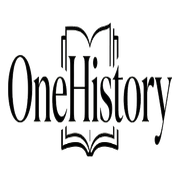
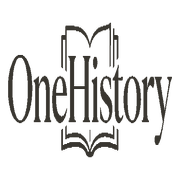
颜色修改

Changed region(s): [[0.0278, 0.1111, 0.9722, 0.8889], [0.6111, 0.1667, 0.6667, 0.3611], [0.8611, 0.75, 0.8889, 0.8056]]

diff --git a/b-Site/assets/site.css b/b-Site/assets/site.css
@@ -8,25 +8,25 @@
    ============================================================ */
 
 /* ---------------------------------------------- 令牌 */
-/* 与 README §3 逐值相同。--ink 是墨色（= text），墨色块、粗横线都用它；
-   *-on-ink 是写在墨色块上的反白字：取另一套主题的对应值（Office 的 accent-dark 同理）。 */
+/* 与 README §3 逐值相同（= HistoryAurora 1.41.0）。文字只有一种颜色：--text = --text-2 = --ink；
+   --on-ink 是墨色块上的反白字 = 本主题 canvas；accent-on-ink / text-2-on-ink 取另一套主题的对应值。 */
 html[data-theme="light"] {
-  --canvas:#FBFAF7; --surface:#F3F1EC; --surface-2:#EBE9E4; --surface-hover:#E5E3DE;
-  --text:#26231E; --text-2:#6A6458;
-  --accent:#7F5E0F; --accent-hover:#6A4E0C;
+  --canvas:#FBFAF7; --surface:#ECEAE5; --surface-2:#DAD7CE; --surface-hover:#E3E1DA;
+  --text:#38352F; --text-2:#38352F;
+  --accent:#7F5E0F;
   --accent-soft:rgba(127,94,15,.34); --accent-wash:rgba(127,94,15,.08);
-  --hairline:#E5E3DE; --hairline-2:#D5D1C8;
+  --hairline:#E3E1DA; --hairline-2:#D5D1C8;
   --code-bg:#EBE9E4;
-  --ink:#26231E; --on-ink:#FBFAF7; --accent-on-ink:#D9A441; --text-2-on-ink:#ACA593;
+  --ink:#38352F; --on-ink:#FBFAF7; --accent-on-ink:#D9A441; --text-2-on-ink:#DAD7CE;
 }
 html[data-theme="dark"] {
-  --canvas:#121414; --surface:#1D201F; --surface-2:#191C1B; --surface-hover:#2A2D2C;
-  --text:#E2DAC6; --text-2:#ACA593;
-  --accent:#D9A441; --accent-hover:#E8B65C;
+  --canvas:#121414; --surface:#232320; --surface-2:#38352F; --surface-hover:#2E2C28;
+  --text:#DAD7CE; --text-2:#DAD7CE;
+  --accent:#D9A441;
   --accent-soft:rgba(217,164,65,.38); --accent-wash:rgba(217,164,65,.10);
-  --hairline:#2A2D2C; --hairline-2:#343936;
-  --code-bg:#171A19;
-  --ink:#E2DAC6; --on-ink:#121414; --accent-on-ink:#7F5E0F; --text-2-on-ink:#6A6458;
+  --hairline:#2E2C28; --hairline-2:#343736;
+  --code-bg:#242625;
+  --ink:#DAD7CE; --on-ink:#121414; --accent-on-ink:#7F5E0F; --text-2-on-ink:#38352F;
 }
 :root {
   --nav-h:62px; --wrap:1200px;

diff --git a/z-OneHistoryID/README.md b/z-OneHistoryID/README.md
@@ -8,7 +8,7 @@
 |---|---|---|
 | 字标、颜色令牌、字体 | 本文件 | `b-Site/assets/site.css`、HistoryAurora `AuroraTokens.xaml`、各 Office 模板 |
 | 网站风格 | [网站风格.md](网站风格.md) | `b-Site/`（模板、样式、脚本） |
-| Office 风格 | [Office风格.md](Office风格.md) | `0000-000-Template/Unused/b-Office/` |
+| Office 风格 | [Office风格.md](Office风格.md) | `0000-000-Template/z-Unused/b-Office/` |
 
 - 改色的顺序：先改本文件，再同步 `site.css` 和 `AuroraTokens.xaml`，最后同步 Office 模板。
 - 实现与本目录冲突时，以本目录为准，并回头修实现。
@@ -18,45 +18,48 @@
 
 | 文件 | 用途 |
 |---|---|
-| `b-Site/assets/logo.png` | 原始字标，黑色，透明底，640×228。浅色主题的网站使用 |
-| `b-Site/assets/logo-dark.png` | 浅色字标，透明底。深色主题的网站使用 |
-| `b-Site/assets/favicon.png`、`apple-touch.png` | 站点图标 |
-| `z-OneHistoryID/assets/logo-ink.png` | 墨色（`#26231E`）字标，已裁掉透明边，588×176。Office 浅色背景使用 |
+| `b-Site/assets/logo.png` | 浅色墨色（`#38352F`）字标，透明底，640×228。浅色主题的网站使用 |
+| `b-Site/assets/logo-dark.png` | 深色墨色（`#DAD7CE`）字标，透明底。深色主题的网站使用 |
+| `b-Site/assets/favicon.png`、`apple-touch.png` | 站点图标，浅色墨色 |
+| `z-OneHistoryID/assets/logo-ink.png` | 墨色（`#38352F`）字标，已裁掉透明边，588×176。Office 浅色背景使用 |
 | `z-OneHistoryID/assets/logo-canvas.png` | 纸色（`#FBFAF7`）字标，588×176。Office 墨色背景使用 |
+| 各仓库根目录 `Logo.png` | README 用的整张字标图：纸色 `#FBFAF7` 底、墨色 `#38352F` 字，654×439 |
+
+- 全部由同一个字形按上表颜色重新着色得到（2026-10-23 起），只有这几种颜色版本。
 
 - 字标是衬线体的「OneHistory」，中间嵌一本打开的书。「书页」是整个识别体系的母题（网站首屏的书页意象就来自它）。
 - 不要拉伸字标，不要加描边、阴影或渐变，也不要给它另外配色。只允许使用上表中的几种颜色版本。
 
 ## 3. 颜色令牌
 
-两套主题共用同一组令牌名。
+两套主题共用同一组令牌名，颜色与 HistoryAurora 1.41.0 逐值相同（2026-10-23 起）。
 
-- 浅色：暖白纸面上的墨色正文，主题色压暗到 `#7F5E0F`，保证文字对比度过 AA。
-- 深色：炭黑底上的米色正文，主题色为亮金。
-- 两套主题的文字与底色都在同一个暖色相里。
+- **文字只有一种颜色**：浅色 `#38352F`、深色 `#DAD7CE`。正文、标题、次要文字、墨色块都是它；`text-2` 保留名字，值与 `text` 相同。
+  这一档由用户从七档样张里选定：对背景约 11:1，比原来的墨色（`#26231E`）柔和，比原来的次要文字（`#6A6458`）清楚。
+- 墨色块上的反白字就是本主题的底色（`canvas`）。`surface-2`（控制面板、条带）= 另一套主题的墨色块：浅色 `#DAD7CE`、深色 `#38352F`；`surface`（页面、卡片）取 `canvas` 到 `surface-2` 的 45%，让控制面板不突兀；`surface-hover` / `hairline` 再往面板走一半。
+- 浅色：暖白纸面，主题色压暗到 `#7F5E0F`，保证文字对比度过 AA。深色：炭黑底，主题色为亮金。
 - 层级是「底色 → 卡片 → 条带」三层小台阶，浅色越往上越深，深色与之对应。
 
 | 令牌 | 浅色 | 深色 | 用途 |
 |---|---|---|---|
-| `canvas` | `#FBFAF7` | `#121414` | 页面底色 |
-| `surface` | `#F3F1EC` | `#1D201F` | 卡片、输入框、按钮底 |
-| `surface-2` | `#EBE9E4` | `#191C1B` | 条带、分段控件底、快捷键提示 |
-| `surface-hover` | `#E5E3DE` | `#2A2D2C` | 悬停底色 |
-| `text` | `#26231E` | `#E2DAC6` | 正文、标题（Office 里称 ink，即墨色） |
-| `text-2` | `#6A6458` | `#ACA593` | 次要文字、标签、说明 |
+| `canvas` | `#FBFAF7` | `#121414` | 页面底色；墨色块上的反白字 |
+| `surface` | `#ECEAE5` | `#232320` | 卡片、输入框、按钮底 |
+| `surface-2` | `#DAD7CE` | `#38352F` | 条带、分段控件底、快捷键提示（= 另一套主题的墨色块） |
+| `surface-hover` | `#E3E1DA` | `#2E2C28` | 悬停底色 |
+| `text` | `#38352F` | `#DAD7CE` | 正文、标题、墨色块（Office 里称 ink，即墨色） |
+| `text-2` | `#38352F` | `#DAD7CE` | 次要文字、标签、说明（与 `text` 同值） |
 | `accent` | `#7F5E0F` | `#D9A441` | 主题色：链接、编号、选中态、章节号 |
-| `accent-hover` | `#6A4E0C` | `#E8B65C` | 主题色悬停 |
 | `accent-soft` | `rgba(127,94,15,.34)` | `rgba(217,164,65,.38)` | 选中 / 悬停时的描边 |
 | `accent-wash` | `rgba(127,94,15,.08)` | `rgba(217,164,65,.10)` | 选中底、首屏光晕 |
-| `hairline` | `#E5E3DE` | `#2A2D2C` | 常规分隔线、卡片边框 |
-| `hairline-2` | `#D5D1C8` | `#343936` | 较深的分隔线、虚线框 |
-| `code-bg` | `#EBE9E4` | `#171A19` | 代码底色 |
+| `hairline` | `#E3E1DA` | `#2E2C28` | 常规分隔线、卡片边框 |
+| `hairline-2` | `#D5D1C8` | `#343736` | 较深的分隔线、虚线框 |
+| `code-bg` | `#EBE9E4` | `#242625` | 代码底色 |
 | `shadow` | `0 10px 30px rgba(38,35,30,.06)` | `0 16px 40px rgba(0,0,0,.26)` | 只给浮在上面的弹层（网站与 Office 都不用） |
 | `shadow-lift` | `0 16px 38px rgba(38,35,30,.12)` | `0 22px 52px rgba(0,0,0,.40)` | 同上，较高的弹层 |
 | `ring` | `0 0 0 4px rgba(127,94,15,.16)` | `0 0 0 4px rgba(217,164,65,.18)` | 暂不使用（网站聚焦改为边线变墨色） |
 
 - 主题色只用来强调，不做大面积底色。
-- 「墨色」（ink）就是 `text`：墨色条、粗细墨线、选中块都用它。墨色块上的反白字取另一套主题的对应值，见 [网站风格.md §2.4](网站风格.md)。
+- 「墨色」（ink）就是 `text`：墨色条、粗细墨线、选中块都用它。墨色块上的反白字是本主题 `canvas`，其余见 [网站风格.md §2.4](网站风格.md)。
 - 不要引入令牌以外的颜色。
 
 ## 4. 字体

diff --git a/z-OneHistoryID/网站风格.md b/z-OneHistoryID/网站风格.md
@@ -14,7 +14,7 @@
 1. **目录站，内容来自 README。** 卡片和说明页都由各项目仓库的 README 生成，不手写内容；`index.html`、`p/**`、`projects.json` 是生成产物，不要手改。
 2. **与 Office 同一套语言。** 「重量」只来自墨色块和粗横线：段标题接墨色条，信息用图纸标题栏式的横线分格，表格白底加粗细两级横线。
 3. **书页意象。** 首屏是两片摊开的书页加中缝，与字标里的书呼应。母题只出现在首屏，并保持低对比，不抢内容。
-4. **深浅双主题。** 首帧前根据 `localStorage["oh-theme"]` 或系统偏好确定主题，避免闪白；右上角按钮切换并记住选择。深色主题里「墨色」就是米色正文色，墨色条随之变成米色条，关系不变。
+4. **深浅双主题。** 首帧前根据 `localStorage["oh-theme"]` 或系统偏好确定主题，避免闪白；右上角按钮切换并记住选择。深色主题里「墨色」就是浅色正文色 `#DAD7CE`，墨色条随之变成浅色条，关系不变。
 5. **金色只做编号。** `accent` 用于项目编号、章节号、统计数字、筛选计数，以及正文链接的下划线。链接文字本身用墨色，悬停才变金。
 6. **少即是多。** 不加投影、渐变按钮和灰底卡片，也不加说明性的插画和徽章。卡片只有一圈细边，重量交给里面的墨线。
 7. **可分享的视图。** 搜索词和筛选写进地址栏（`?q=`、`?g=`），直接复制链接就能分享筛好的列表。
@@ -77,7 +77,7 @@
 |---|---|---|---|
 | `ink` | = 浅色 `text` | = 深色 `text` | 墨色条、粗细墨线、选中块 |
 | `on-ink` | = 浅色 `canvas` | = 深色 `canvas` | 墨色块上的反白字 |
-| `accent-on-ink` | = 深色 `accent` | = 浅色 `accent` | 墨色块上的编号、计数（同 Office 的 accent-dark） |
+| `accent-on-ink` | = 深色 `accent` | = 浅色 `accent` | 墨色块上的编号、计数（同 Office 的 accent-dark）；对墨色块约 5.5 : 1 / 4.3 : 1 |
 | `text-2-on-ink` | = 深色 `text-2` | = 浅色 `text-2` | 墨色块上的次要文字 |
 
 ### 2.5 图标
@@ -249,5 +249,6 @@
   与网站不同的三处，都是用户定的：
   - **表头是反色圆角块**（墨底反白字），不用粗细墨线——程序里表头是一整条控件，线看起来太突兀。
   - **工具条、控制台筛选条保留 `surface-2` 底**：Aurora 的层级是「底部 → 页面 → 控制面板」三层色台阶，不照搬「卡片不填底色」。
-  - **深色底色与 README 不同**：Aurora 深色 canvas `#1A1D1C`、surface-2 `#242625`（README 为 `#121414` / `#191C1B`），是 Aurora 自己的台阶方向。
-    要统一时先定以哪边为准，再改 README 或 `AuroraTokens.Dark.xaml`。
+  - **颜色已统一**（2026-10-23，Aurora 1.41.0）：README 的令牌与 Aurora 逐值相同；深色底色 `#121414`，`surface-2` 对齐另一套主题的墨色块（`#DAD7CE` / `#38352F`）。
+    Aurora 没有 `accent-on-ink`：它的墨块上只有反白字，选中行悬停不变金；网站的筛选计数仍用 `accent-on-ink`（对比度够）。
+- **介绍动画**（`b-Code/intro/intro.js`）还是 2026-10-23 之前的颜色：改色要重新渲染视频，单独做。

diff --git a/z-OneHistoryID/Office风格.md b/z-OneHistoryID/Office风格.md
@@ -4,7 +4,7 @@
 
 - 适用范围：OneHistory 体系内所有新写或改写的 Office 模板（报告、表单、演示、清单）。
 - 风格名：**浅色 · 文艺工业风**。暖白纸色、衬线字标带来「文艺」；墨色实心块、粗细两级横线、等宽感数字带来「工业」。
-- 参考实现：`0000-000-Template/Unused/b-Office/` 下的四个文件（见文末「参考实现」）。
+- 参考实现：`0000-000-Template/z-Unused/b-Office/` 下的四个文件（见文末「参考实现」）。
 - 本文件与参考实现冲突时，以本文件为准，并回头修参考实现。
 
 ---
@@ -258,7 +258,7 @@ docx-js 不支持在样式上挂编号。做法是生成后改 XML：
 
 ## 参考实现
 
-仓库 `cyx3705/0000-000-Template`，目录 `Unused/b-Office/`：
+仓库 `cyx3705/0000-000-Template`，目录 `z-Unused/b-Office/`：
 
 | 文件 | 体现的规则 |
 |---|---|
